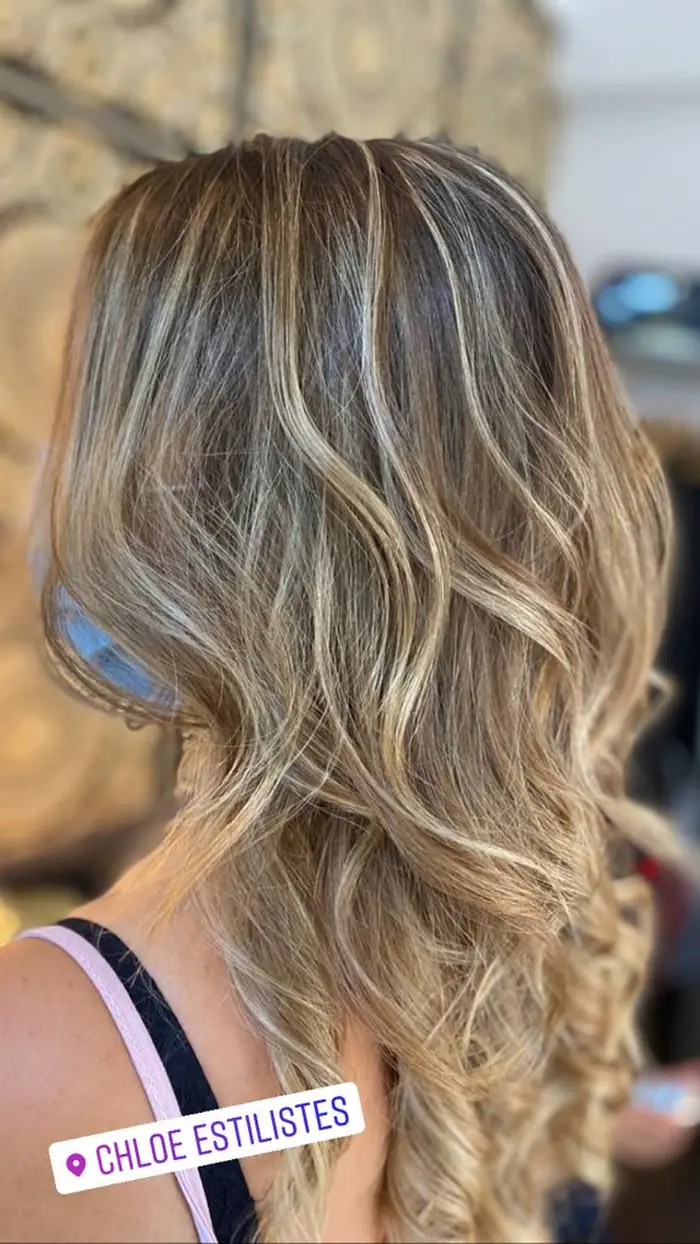
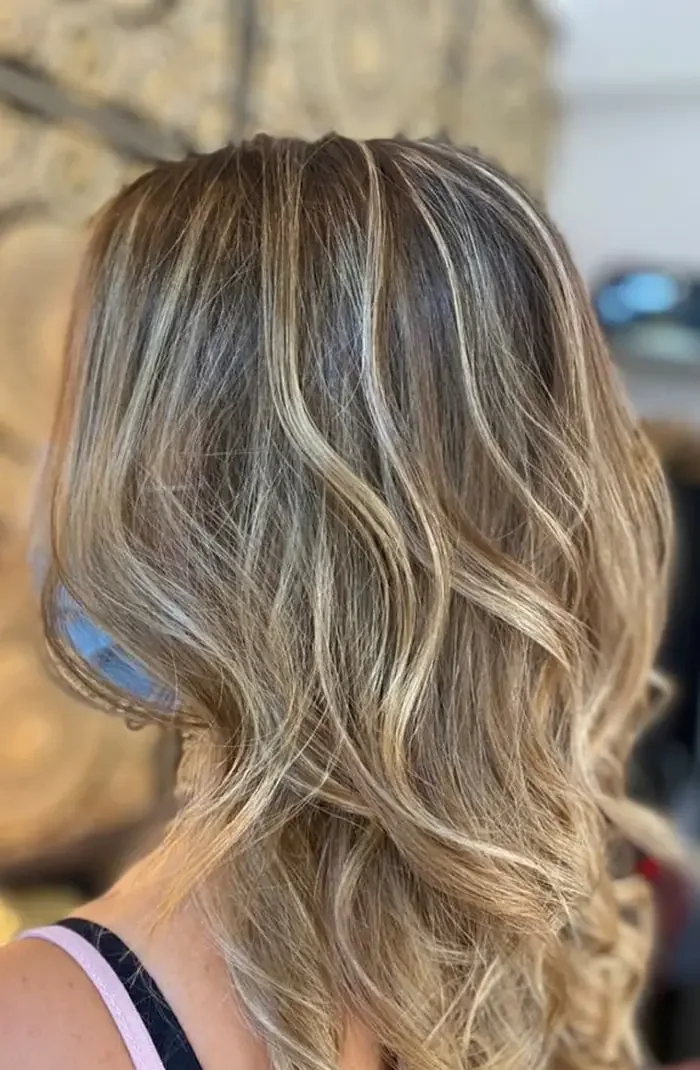
Recorta la pegatina de Instagram de mechas-balayage-rubio-ondas
- Quita la franja inferior con la pegatina de ubicación de Instagram:
  la foto pasa de 700x1244 a 700x1070.
- Actualiza height a 1070 y añade ?v=2 en index.html y ca/index.html.

diff --git a/ca/index.html b/ca/index.html
@@ -501,7 +501,7 @@ main h2.ce-in .w{opacity:1;transform:none}
 <figure><img alt="Tint coure intens en mitja melena amb capes" height="1125" loading="lazy" src="/img/tinte-cobrizo-melena-capas.webp?v=5" width="900"/><figcaption>Color</figcaption></figure>
 <figure><img alt="Cabell llarg castany, llis i brillant, després d&#x27;un allisat de queratina" height="1125" loading="lazy" src="/img/alisado-keratina-castano-largo.webp?v=5" width="900"/><figcaption>Allisat</figcaption></figure>
 <figure><img alt="Balayage ros en cabell llarg amb ones marcades, d&#x27;esquena" height="1066" loading="lazy" src="/img/balayage-rubio-largo-ondas.webp" width="800"/><figcaption>Balayage</figcaption></figure>
-<figure><img alt="Metxes balayage rosses en melena llarga ondulada" height="1244" loading="lazy" src="/img/mechas-balayage-rubio-ondas.webp" width="700"/><figcaption>Metxes</figcaption></figure>
+<figure><img alt="Metxes balayage rosses en melena llarga ondulada" height="1070" loading="lazy" src="/img/mechas-balayage-rubio-ondas.webp?v=2" width="700"/><figcaption>Metxes</figcaption></figure>
 <figure><img alt="Metxes mocha mousse en mitja melena amb capes, de perfil" height="1125" loading="lazy" src="/img/mechas-mocha-mousse-perfil.webp" width="900"/><figcaption>Metxes mocha mousse</figcaption></figure>
 </div>
 <p class="hint">Llisca →</p>

diff --git a/index.html b/index.html
@@ -506,7 +506,7 @@ main h2.ce-in .w{opacity:1;transform:none}
 <figure><img alt="Tinte cobrizo intenso en media melena con capas" height="1125" loading="lazy" src="/img/tinte-cobrizo-melena-capas.webp?v=5" width="900"/><figcaption>Color</figcaption></figure>
 <figure><img alt="Pelo largo castaño, liso y brillante, tras un alisado de queratina" height="1125" loading="lazy" src="/img/alisado-keratina-castano-largo.webp?v=5" width="900"/><figcaption>Alisado</figcaption></figure>
 <figure><img alt="Balayage rubio en pelo largo con ondas marcadas, de espaldas" height="1066" loading="lazy" src="/img/balayage-rubio-largo-ondas.webp" width="800"/><figcaption>Balayage</figcaption></figure>
-<figure><img alt="Mechas balayage rubias en melena larga ondulada" height="1244" loading="lazy" src="/img/mechas-balayage-rubio-ondas.webp" width="700"/><figcaption>Mechas</figcaption></figure>
+<figure><img alt="Mechas balayage rubias en melena larga ondulada" height="1070" loading="lazy" src="/img/mechas-balayage-rubio-ondas.webp?v=2" width="700"/><figcaption>Mechas</figcaption></figure>
 <figure><img alt="Mechas mocha mousse en media melena con capas, de perfil" height="1125" loading="lazy" src="/img/mechas-mocha-mousse-perfil.webp" width="900"/><figcaption>Mechas mocha mousse</figcaption></figure>
 </div>
 <p class="hint">Desliza →</p>
